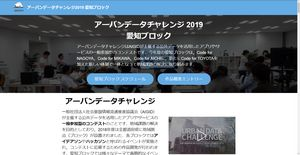
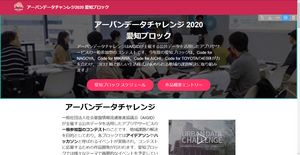
udc

diff --git a/docs/udc/2020/index.html b/docs/udc/2020/index.html
@@ -22,10 +22,10 @@
   <link rel="preload" as="style" href="assets/mobirise/css/mbr-additional.css"><link rel="stylesheet" href="assets/mobirise/css/mbr-additional.css" type="text/css">
   
   
-  <meta property="og:title" content="UDC2019 愛知ブロック" />
+  <meta property="og:title" content="UDC2020 愛知ブロック" />
 <meta property="og:type" content="website" />
-<meta property="og:url" content="https://www.code4.nagoya/udc/2020/" />
-<meta property="og:image" content="https://www.code4.nagoya/udc/2020/assets/images/logo-300x300.png" />
+<meta property="og:url" content="https://www.code4.nagoya/udc/2020/index.html" />
+<meta property="og:image" content="https://www.code4.nagoya/udc/2020/assets/images/logo-1-300x300.png" />
 </head>
 <body>
   <section class="menu cid-r272PKCAEa" once="menu" id="menu1-0">
@@ -58,7 +58,7 @@
     </nav>
 </section>
 
-<section class="engine"><a href="https://mobirise.info/c">free site builder</a></section><section class="header1 cid-r2738nDVzI" id="header1-1">
+<section class="engine"><a href="https://mobirise.info/j">website templates</a></section><section class="header1 cid-r2738nDVzI" id="header1-1">
 
     
 
@@ -605,7 +605,7 @@
             <div class="media-container-column col-lg-8" data-form-type="formoid">
                     <div data-form-alert="" hidden="">UDC愛知拠点・事務局にご連絡頂きありがとうございました．</div>
             
[2 lines of base64/hex data omitted]
                         <div class="row row-sm-offset">
                             <div class="col-md-4 multi-horizontal" data-for="name">
                                 <div class="form-group">

diff --git a/docs/udc/2019/index.html b/docs/udc/2019/index.html
@@ -58,7 +58,7 @@
     </nav>
 </section>
 
-<section class="engine"><a href="https://mobirise.info/i">free site creation software</a></section><section class="header1 cid-r2738nDVzI" id="header1-1">
+<section class="engine"><a href="https://mobirise.info/p">web templates free download</a></section><section class="header1 cid-r2738nDVzI" id="header1-1">
 
     
 
@@ -605,7 +605,7 @@
             <div class="media-container-column col-lg-8" data-form-type="formoid">
                     <div data-form-alert="" hidden="">UDC愛知拠点・事務局にご連絡頂きありがとうございました．</div>
             
[2 lines of base64/hex data omitted]
                         <div class="row row-sm-offset">
                             <div class="col-md-4 multi-horizontal" data-for="name">
                                 <div class="form-group">
